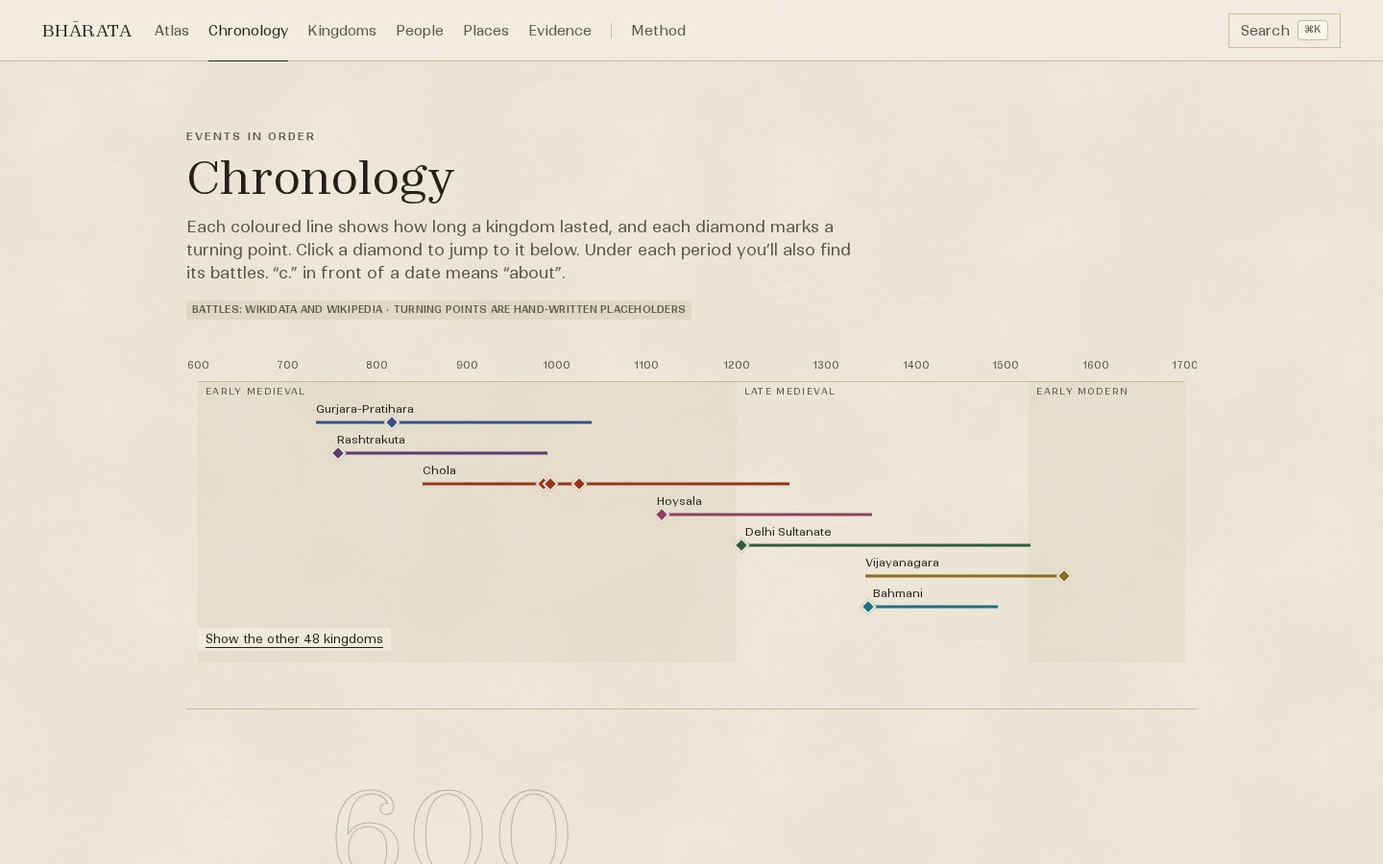
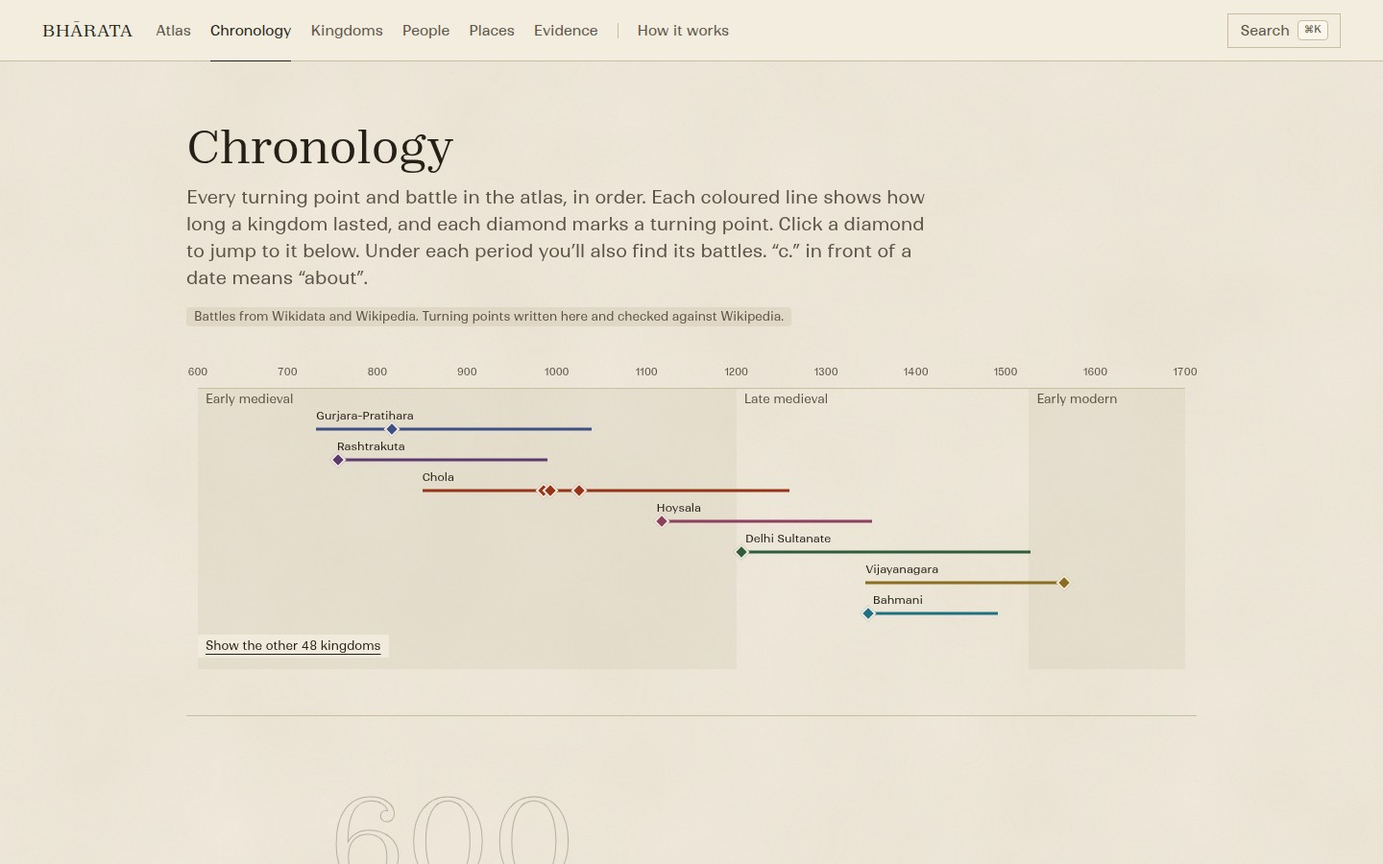
Reconcile every document with the code and data, and retake the README screenshots

diff --git a/docs/DATA.md b/docs/DATA.md
@@ -40,9 +40,9 @@ Three related rules follow from it:
 | Data | Source | Licence | Where it is credited |
 |---|---|---|---|
 | Kingdom borders and dates | [Cliopatria](https://github.com/Seshat-Global-History-Databank/cliopatria), Seshat Global History Databank. Bennett et al., *Scientific Data* 12, 247 (2025). [doi:10.1038/s41597-025-04516-9](https://doi.org/10.1038/s41597-025-04516-9) | CC BY 4.0 | Each kingdom page (Sources), the Method page, the footer, and saved map images |
-| Kingdom and ruler summaries, battle descriptions | English Wikipedia, opening paragraph, lightly trimmed | CC BY-SA 4.0 | Each page's Sources list names the article |
-| Capitals and their coordinates; battles; rulers' roles and dates; protected monuments | [Wikidata](https://www.wikidata.org) | CC0 | Each page's Sources list; Method page |
-| Photographs and portraits | [Wikimedia Commons](https://commons.wikimedia.org) | Per file: only CC BY, CC BY-SA, CC0 and public domain are accepted | Photographer, licence and link under every image; full list on the Method page |
+| Kingdom and ruler summaries, battle descriptions; ruler names and reigns for kingdoms Wikidata has no monarchs for | English Wikipedia: opening paragraphs, lightly trimmed, and the dated tables in its "List of …" articles | CC BY-SA 4.0 | Each page's Sources list names the article or list |
+| Capitals and their coordinates; battles; rulers' roles and dates; protected monuments; dated temples, mosques, forts and tombs; native-script and alternative names | [Wikidata](https://www.wikidata.org) | CC0 | Each page's Sources list; Method page |
+| Photographs of kingdoms and places, ruler portraits, and the thumbnails shown for dated sites (linked from Commons, not copied) | [Wikimedia Commons](https://commons.wikimedia.org) | Per file: only CC BY, CC BY-SA, CC0 and public domain are accepted | Photographer, licence and link under every image; full list on the Method page |
 | Inscription translation | *South Indian Inscriptions*, Vol. II (Archaeological Survey of India, 1913), scan from the Digital Library of India | Public domain | The evidence page's source chain, with a link to the scan |
 | Chera outline (placeholder) | [indian-district-boundaries](https://github.com/guneetnarula/indian-district-boundaries) | MIT | Method page |
 | Base map | © CARTO, © OpenStreetMap contributors | ODbL (data); CARTO terms (tiles) | Map attribution control, Method page |
@@ -54,7 +54,7 @@ Wikipedia's licence (CC BY-SA 4.0) requires attribution and share-alike. Each su
 
 ## 3. The pipeline
 
-Data is imported by three Python scripts that you run by hand. Their output is committed to the repository, so the site builds offline and every data change is a reviewable diff.
+Data is imported by Python scripts that you run by hand. Their output is committed to the repository, so the site builds offline and every data change is a reviewable diff. The diagram shows the three main importers; the table under it lists the rest.
 
 ```mermaid
 flowchart TB
@@ -103,7 +103,18 @@ flowchart TB
     class CZ,WD,WP,CM,A1,A2,A3,B1,B2,B3,C1,C2,C3,O1,O2,O3 node;
 ```
 
-Order matters: run `import-cliopatria.py` first, then the other two, which read its output.
+Order matters: run `import-cliopatria.py` first, then the others, which read its output.
+
+| Script | Reads | Writes |
+|---|---|---|
+| `import-names.py` | The caches the three importers above wrote | Native-script and alternative names |
+| `import-sites.py` | Wikidata | `public/data/sites.geojson` |
+| `import-ruler-lists.py` | Wikipedia's lists of rulers, and the kingdom list | Rulers for kingdoms Wikidata lacks, and which Wikidata records they replace |
+| `check-places.py` | Wikidata | Item and coordinates for each hand-written place |
+| `import-place-photos.py` | `check-places.py` output, Commons | Photographs and credits for places |
+| `import-photos.py` | Commons (a human picks) | Photographs and credits for kingdoms |
+| `apply-corrections.py` | The generated files | The documented fixes, re-applied after any import |
+| `validate-data.py` | Everything, and the web | A list of problems; changes nothing |
 
 All network responses are cached in a `cache/` folder inside the directory you run from, so reruns are fast, offline, and give identical results.
 
@@ -119,7 +130,7 @@ mkdir -p ~/bharata-import && cd ~/bharata-import
 
 # 2. Python with shapely
 python3 -m venv venv
-venv/bin/pip install shapely
+venv/bin/pip install shapely pillow     # Pillow is only for import-photos.py candidates
 
 # 3. The Cliopatria dataset (about 44 MB zipped)
 curl -L -o clio.zip \
@@ -189,7 +200,7 @@ Automatic imports need a few human judgements. They are written down in the scri
 | `lib/data/generated/place-wikidata.json` | `check-places` | Wikidata item and coordinates for each of the 24 hand-written places (it found Halebidu typed 25 km off) |
 | `lib/data/generated/photos.json` | `import-photos` | Credit for 35 hand-picked kingdom photographs (`public/images/kp-*.jpg`) |
 | `lib/data/generated/imported-people.json` | `import-rulers` | Rulers: dates, whether they are a reign or a lifetime, role, summary |
-| `lib/data/generated/imported-ruler-images.json` | `import-rulers` | Credit for each ruler image |
+| `lib/data/generated/imported-ruler-images.json` | `import-rulers` | Credit for each ruler image (32; 14 are not shown, see section 7) |
 | `lib/data/prototype.ts` | by hand, plus the merge | Hand-written records, and the code that merges everything above into typed arrays |
 | `lib/data/images.ts` | by hand, plus the merge | Credits for hand-picked photographs |
 | `lib/data/story.ts` | by hand | The four homepage chapters |
@@ -221,11 +232,12 @@ These are known limits of the current data, not bugs. They are tracked in [`BACK
 
 ### Rulers
 
-Every kingdom now has at least one ruler, about 670 in all, with reign dates. They come from three routes: Wikidata (office and dates), Wikipedia's dated lists of rulers (`import-ruler-lists.py`), and a few hand-written records checked against their Wikipedia article. Where a list gives a reign and Wikidata only a lifetime, the reign replaces it. The biggest lists: Anuradhapura (52), Bengal Sultanate (36), Kashmir Sultanate (32), Delhi Sultanate (32), Vijayanagara (28), Chola (20).
+Every kingdom now has at least one ruler, about 670 in all, with reign dates. They come from three routes: Wikidata (office and dates), Wikipedia's dated lists of rulers (`import-ruler-lists.py`), and a few hand-written records checked against their Wikipedia article. Where a list gives a reign and Wikidata only a lifetime, the reign replaces it. The biggest lists: Anuradhapura (52), Bengal Sultanate (36), Delhi Sultanate (33), Kashmir Sultanate (32), Vijayanagara (29), Chola (20).
 
 What is still thin, and why:
 
 - **Harsha's Empire (1), Kampili (2), the Maratha kingdom (3), the Thanjavur Nayaks (4):** the sources name no more rulers in the years the atlas covers.
+- **Pala, Gurjara-Pratihara and the Kalyani Chalukya (1 each):** only the hand-written ruler; no list has been imported for them yet.
 - **Reign dates are approximate** wherever a source gives "c." years (Maitraka, Chera, Habbarid), and some sources disagree by a few years (the page gives the table's figure).
 - **Few have a summary.** Rulers from lists have a name, role and dates only; the page says so instead of leaving a blank.
 - 211 Wikidata candidates were skipped because Wikidata gave no usable dates for them.
@@ -241,7 +253,7 @@ What is still thin, and why:
 - **Evidence:** two real inscription translations (SII Vol. II, nos. 85 and 88), each read from the printed page. The photograph beside each is of a *different* inscription and is labelled so. There is no transcription of the Tamil text.
 - **Hand-written text** for the eleven curated kingdoms, their eleven rulers and the nine turning points was checked, statement by statement, against the Wikipedia article named in each record (the audit corrected about 25 statements). It is still our paraphrase, not a scholarly text.
 - **Not researched:** the **routes** (two example lines, drawn by hand and labelled so on the map) and the **Chera outline**.
-- **Portraits:** 32 of about 670 rulers have a free-licence depiction; the rest show an initial.
+- **Portraits:** 20 of 671 rulers show a free-licence portrait; the rest show an initial. Fourteen more portraits are downloaded and credited (`imported-ruler-images.json`) but not shown: twelve belong to a Wikidata record that a list's dated reign replaced, one to a hand-written record that has no image set, and one to a record that no longer exists. See K10 in the backlog.
 - **Photographs:** every kingdom has one. Three (Maitraka, Lohara, Dambadeniya) show a coin or temples of the period rather than the capital's best-known building; Gahadavala and Sena show an inscription and pottery.
 - **Battles:** 6 of 127 have only a date and place from Wikidata; no source describing them was found.
 - **Native-script names** were checked against the same-language Wikipedia titles; one (Kalyani Chalukya) has none because no article title could be confirmed.

diff --git a/README.md b/README.md
@@ -20,7 +20,7 @@ Then follow any claim back to the evidence it rests on.
 
 <br />
 
-<img src="docs/assets/globe.jpg" alt="The BHĀRATA homepage: a globe turning from Africa towards the Indian subcontinent, with kingdoms inked in" width="860" />
+<img src="docs/assets/globe.jpg" alt="The BHĀRATA homepage: the subcontinent seen from above in 1050 CE with kingdoms inked in, the title, and a prompt to scroll" width="860" />
 
 <br />
 <br />
@@ -119,7 +119,7 @@ flowchart LR
 <td width="50%"><img src="docs/assets/evidence.jpg" alt="An evidence page showing a stone inscription viewer and the English translation" /><br /><sub><b>Evidence.</b> A translation from <i>South Indian Inscriptions</i>, with the viewer above it.</sub></td>
 </tr>
 <tr>
-<td colspan="2"><img src="docs/assets/chronology.jpg" alt="The chronology page with one coloured line per kingdom and diamonds for events" /><br /><sub><b>The chronology.</b> One line per kingdom, one diamond per turning point, battles listed under each period.</sub></td>
+<td colspan="2"><img src="docs/assets/chronology.jpg" alt="The chronology page with one coloured line per kingdom, diamonds for events, and a button to show the other 48 kingdoms" /><br /><sub><b>The chronology.</b> One line per kingdom (the seven with turning points first, the other 48 one click away), one diamond per turning point, battles listed under each period.</sub></td>
 </tr>
 </table>
 
@@ -133,8 +133,9 @@ BHĀRATA is an early version, and being straight about that is part of the proje
 |---|---|---|
 | Kingdom borders and dates | [Cliopatria](https://github.com/Seshat-Global-History-Databank/cliopatria) (Seshat Global History Databank, CC BY 4.0) | Researched. One version of each territory, **not exact frontiers** |
 | Kingdom summaries | Wikipedia (CC BY-SA 4.0) | Opening paragraphs, lightly trimmed |
-| Capitals, battles, dated sites, monuments, rulers | Wikidata (CC0) and Wikipedia's lists of rulers | Real. Every kingdom has rulers; a few have only two or three because the sources name no more |
+| Capitals, battles, dated sites, monuments, rulers | Wikidata (CC0) and Wikipedia's lists of rulers | Real. Every kingdom has rulers; a few have only one to four because the sources name no more |
 | Photographs | Wikimedia Commons | Real, credited; only free licences |
+| Names in Tamil, Kannada, Persian and other scripts | Wikidata labels | Real, but **not yet checked by a reader of each language** |
 | Inscription evidence | *South Indian Inscriptions* Vol. II (1913, public domain) | **Two** real translations so far |
 | Hand-written texts, eleven rulers, nine turning points | This repository | Written here and **checked against Wikipedia**, statement by statement; the source is named on each page |
 | Chera borders, two example routes | This repository | **Not researched**, labelled on the page and the map |
@@ -160,6 +161,7 @@ flowchart TB
         I1["import-cliopatria.py"]
         I2["import-wikidata.py"]
         I3["import-rulers.py"]
+        I4["and six more: names, sites,<br/>ruler lists, photographs,<br/>checks, corrections"]
     end
 
     subgraph DATA["Committed data"]
@@ -180,9 +182,13 @@ flowchart TB
     W --> I2
     W --> I3
     P --> I3
+    W --> I4
+    P --> I4
+    M --> I4
     I1 --> G
     I2 --> G
     I3 --> G
+    I4 --> G
     G --> D
     H --> D
     D --> S
@@ -190,7 +196,7 @@ flowchart TB
     S --> CC
 
     classDef box fill:#faf6ec,stroke:#241f17,color:#241f17;
-    class C,W,P,M,I1,I2,I3,G,H,D,S,SC,CC box;
+    class C,W,P,M,I1,I2,I3,I4,G,H,D,S,SC,CC box;
 ```
 
 One function, `getHistoricalState(year)`, answers *what does the world look like in year Y*. The timeline, the map and the preview panel all call it, so they can never disagree. The deeper tour, with the map's layer stack and the per-frame update path, is in [`docs/ARCHITECTURE.md`](docs/ARCHITECTURE.md).
@@ -204,9 +210,9 @@ One function, `getHistoricalState(year)`, answers *what does the world look like
 | **Framework** | [Next.js](https://nextjs.org) 16 (App Router, React Server Components), React 19, TypeScript 5 |
 | **Map** | [MapLibre GL JS](https://maplibre.org) 6: globe projection, hillshade, 3D terrain, `feature-state`. Glyphs generated from the project's own fonts |
 | **Styling** | Tailwind CSS 4 with design tokens; [Motion](https://motion.dev) for animation; the browser's View Transitions for page changes |
-| **Interface parts** | Radix UI (dialog, tabs, popover), [cmdk](https://cmdk.paco.me) for search, Lucide icons |
+| **Interface parts** | Radix UI (dialog, tabs, popover, tooltip), [cmdk](https://cmdk.paco.me) for search, Lucide icons |
 | **Data contracts** | [Zod](https://zod.dev) 4 |
-| **Import scripts** | Python 3 with `shapely` |
+| **Import scripts** | Python 3 with `shapely` (and Pillow, only to choose photographs) |
 | **Hosting** | [Vercel](https://vercel.com) |
 
 <br />
@@ -267,7 +273,10 @@ lib/
   domain/            Zod schemas and types, date formatting
   data/              Hand-written records, generated data, image credits
   geo/               getHistoricalState(year), GeoJSON conversion
-scripts/             Python importers and the MapLibre worker copy
+  search/            The search index behind the ⌘K palette
+  utils/             Small helpers (class names, colour, stored flags, page-transition types)
+scripts/             Python importers, the data checker, and the MapLibre worker copy
+assets/              Fonts for the share images
 docs/                Architecture, data, design, development, backlog
 public/              Fonts, map glyphs and style, images, monuments
 ```

diff --git a/docs/ARCHITECTURE.md b/docs/ARCHITECTURE.md
@@ -88,6 +88,7 @@ Pages are server components. Only the parts that need the browser are client com
 | All `app/**/page.tsx` routes | `AtlasView` and everything inside it |
 | Kingdom, person, place and evidence pages | `HistoricalMap`, `StoryMap` (the homepage globe) |
 | `KingdomLanes`, `ProvenanceChain`, `Colophon` | `TimelineScrubber`, `LifespanStrip`, `EventTicks` |
+| | `KingdomBoard`, `PeopleDirectory`, `PlacesAtlas` (the Kingdoms, People and Places pages: their rows are built on the server and the find box filters them in the browser) |
 | Share images (`opengraph-image.tsx`, rendered once at build) | `CommandPalette`, `EvidenceViewer`, `RakingLight` |
 | Static metadata and `generateStaticParams` | `EntityPreviewPanel`, `MobileMenu`, `NavLinks` |
 
@@ -182,7 +183,7 @@ The definitions live in `components/map/layers.ts`; ids are in `mapStyle.ts`. Ea
 - **Selecting a kingdom** flies the camera to its borders, tilts it when terrain is on, and pads the view so the shape sits clear of the preview card (desktop) or bottom sheet (mobile).
 - **Compare view** runs a second `HistoricalMap` at its own year. The two cameras are linked in both directions with a re-entrancy guard so they cannot echo each other.
 - **Save as image** copies the WebGL canvas inside the next `render` event (the buffer is cleared after each frame) and draws a key and credits onto it.
-- **Click handling** gives battles, monuments and clusters priority over the kingdom underneath. Popup content is built with `textContent`, never HTML, because names come from Wikidata.
+- **Click handling** gives battles, sites, monuments and clusters priority over the kingdom underneath. Popup content is built with `textContent`, never HTML, because names come from Wikidata.
 
 ---
 
@@ -253,7 +254,7 @@ A few choices worth knowing:
 
 ## 7. Provenance
 
-Every record that carries a claim has a `provenance` list pointing at `Source` records. A small helper turns that list into the badge shown on the page, so the label can never disagree with the data.
+Every record that carries a claim has a `provenance` list pointing at `Source` records. `polityStatus`, `personStatus` and `placeStatus` turn that list into the badge shown on the page, so the label can never disagree with the data. The diagram shows the main cases; a hand-written record whose text was checked against Wikipedia gets "Text checked against Wikipedia", and a ruler read from one of Wikipedia's lists gets "Name and dates from Wikipedia's list of rulers".
 
 ```mermaid
 flowchart LR
@@ -261,10 +262,10 @@ flowchart LR
     P --> S["Source<br/>title, citation, url"]
     P --> H["lib/data/status.ts"]
     H --> B{"What does it cite?"}
-    B -- "Cliopatria and Wikipedia" --> G["Badge: Borders: Cliopatria<br/>Summary: Wikipedia"]
-    B -- "Cliopatria only" --> Y["Badge: Borders: Cliopatria<br/>Text not yet checked"]
-    B -- "Wikidata" --> W["Badge: Dates: Wikidata"]
-    B -- "nothing but the<br/>placeholder source" --> X["Badge: Placeholder data,<br/>not yet checked"]
+    B -- "Cliopatria and Wikipedia" --> G["Borders from the Cliopatria dataset.<br/>Summary from Wikipedia."]
+    B -- "Cliopatria only" --> Y["Borders from the Cliopatria dataset.<br/>Text not checked yet."]
+    B -- "Wikidata" --> W["Dates and title from Wikidata."]
+    B -- "nothing but the<br/>placeholder source" --> X["Placeholder, not checked yet."]
 
     classDef node fill:#faf6ec,stroke:#241f17,color:#241f17;
     class R,P,S,H,B,G,Y,W,X node;
@@ -278,12 +279,12 @@ The evidence page goes one step further. `ProvenanceChain` lists each link betwe
 
 | State | Where it lives | Why |
 |---|---|---|
-| Year and selected kingdom | URL (`?year=1050&polity=chola`) | A link is a saved historical viewpoint |
+| Year, selected kingdom, layers, camera | URL (`?year=1050&polity=chola&layers=…&at=…`) | A link is a saved historical viewpoint. `layers` appears only when it differs from the default; `at` is the map view, written after the camera stops moving |
 | The year while dragging | React state in `AtlasView` | Instant; the URL follows 300 ms later |
 | Layer toggles, playing, cinema, compare, help | React state in `AtlasView` | Short-lived interface state |
 | Sound on/off | `localStorage` via `useStoredFlag` | A remembered preference; reads as "off" during server render |
 | Recent searches | `localStorage` | A convenience; every access is wrapped in `try/catch` |
-| Map camera | MapLibre | Never mirrored into React |
+| Map camera | MapLibre | Never mirrored into React state; only copied into the link (`at`) once it settles |
 
 ---
 
@@ -323,7 +324,7 @@ flowchart TB
 |---|---|
 | Scrubbing with 466 shapes | Only changed shapes are written each frame (see section 4). A 900-year drag held 60 fps in a software-rendered test browser |
 | 4,300 monuments, 344 sites | Separate GeoJSON files (780 KB together), fetched only when the layer is first enabled, clustered by MapLibre |
-| 60+ kingdoms on the timeline | Kingdoms that never overlap share a row, so about 14 rows instead of 60 |
+| 55 kingdoms on the chronology | One row per kingdom; those with recorded events come first and the rest sit behind a toggle, so the chart does not open as 55 rows |
 | Map load time | Terrain tiles are not waited for; the cover lifts as soon as the basemap and borders are drawn (about 1–3 s) |
 | Homepage globe | Starfield on a plain 2D canvas; the nebula is painted once off-screen; the camera path is one `requestAnimationFrame` loop |
 | Share images | Rendered once per kingdom at build time and cached |

diff --git a/docs/BACKLOG.md b/docs/BACKLOG.md
@@ -73,7 +73,7 @@ quadrantChart
 
 | ID | Item | Why it matters | Size |
 |---|---|---|---|
-| **D1** | **More rulers where a list stops early.** Every kingdom has rulers now, but Harsha's Empire (1), Kampili (2), the Maratha kingdom (3) and the Thanjavur Nayaks (4) have few, and several lists give only "c." years. A cited book (not just Wikipedia) would fix both | A kingdom page with a handful of rulers looks unfinished, and approximate years are only as good as the one source | M |
+| **D1** | **More rulers where a list stops early.** Every kingdom has rulers now, but Pala, Gurjara-Pratihara, the Kalyani Chalukya and Harsha's Empire (1 each), Kampili (2), the Maratha kingdom (3) and the Thanjavur Nayaks (4) have few, and several lists give only "c." years. A cited book (not just Wikipedia) would fix both | A kingdom page with a handful of rulers looks unfinished, and approximate years are only as good as the one source | M |
 | **D4** | **A citation layer down to page numbers.** Add a *Claim* record (the statement) that points to a *Source* with a page or inscription number and, where possible, a quoted line. Today a record cites a source as a whole | Turns "Wikipedia" into "Nilakanta Sastri, *The Cōḻas*, p. 214", which is what a historian can check | L |
 | **D5** | **Replace the hand-written text of the 11 curated kingdoms** (summaries, taglines, "remembered for") with cited text, then have someone who knows the history review it | It is the largest remaining body of unchecked prose | M |
 | **D2** | **More real evidence.** Start with the Chola: more of the Thanjavur inscriptions in *South Indian Inscriptions* Vols. II and III; a coin with a museum catalogue number; a temple with its ASI record. Each needs a free-licence photograph **of that object** | Today there are two real translations, each shown beside a photo of a *different* inscription | XL |
@@ -135,7 +135,7 @@ quadrantChart
 
 | ID | Item | Size |
 |---|---|---|
-| **D11** | Portraits for more of the ~670 rulers (32 have one), using coins as a fallback | M |
+| **D11** | Portraits for more of the ~670 rulers (20 show one), using coins as a fallback. First restore the 14 already downloaded (K10) | M |
 | **D14** | Extend the range beyond 600–1700 (Cliopatria covers far more); needs new era names and a lighter map at wider ranges | L |
 | **D15** | Replace the hand-drawn trade and war routes with routes from a scholarly source | L |
 | **F5** | Sidebar filters: by region, religion or ruler; group kingdoms by era | M |
@@ -164,6 +164,7 @@ Small, real problems, kept honest.
 | **K7** | The first paint of the homepage film waits for map tiles; on a slow connection it shows only stars and the title for a few seconds | `/` |
 | **K8** | Region names on imported kingdoms come from a rough position rule with a few manual overrides; some read slightly off | Kingdom pages |
 | **K9** | The share-image generator reads fonts converted from the web fonts; a rare glyph may be missing | Link previews |
+| **K10** | Fourteen ruler portraits are downloaded and credited but not shown. Twelve belonged to a Wikidata record that a Wikipedia list's dated reign later replaced, and the replacement carries no image. One more is a hand-written record with no image set, and one belongs to a record that no longer exists (`ruler-bukka`) | People pages: Razia Sultana, Sher Shah Suri, Mahmud of Ghazni, the Adil Shahs and others |
 
 ---
 

diff --git a/docs/DEVELOPMENT.md b/docs/DEVELOPMENT.md
@@ -111,6 +111,7 @@ For data, also:
 - [ ] Every new record has `provenance`, and the page's badge is correct
 - [ ] Dates use the right qualifiers; a lifetime is never shown as a reign
 - [ ] Anything uncertain says so
+- [ ] `scripts/validate-data.py` reports nothing new ([`DATA.md`](DATA.md#corrections-and-the-audit))
 
 ### Automated tests
 
@@ -138,7 +139,8 @@ New kingdoms come from the importer, not from hand-editing:
 
 1. Add the Cliopatria name to `INCLUDE` in `scripts/import-cliopatria.py` with an id and display name.
 2. Re-run the importers ([`DATA.md`](DATA.md#4-running-the-importers)) and review the diff.
-3. Optionally add a checked photo id to `IMAGE_OK`, or a hand-written record to `lib/data/prototype.ts` (and list its id in `CURATED`).
+3. Photograph: pick one with `import-photos.py candidates` then `download` ([`DATA.md`](DATA.md#4-running-the-importers)). Rulers: add the kingdom's Wikipedia list to `LISTS` in `scripts/import-ruler-lists.py` if Wikidata has no monarchs for it. Optionally add a hand-written record to `lib/data/prototype.ts` (and list its id in `CURATED`).
+4. Run `scripts/validate-data.py` and read what it prints.
 
 ### Add an evidence record
 
@@ -185,8 +187,8 @@ After a deploy, check:
 - Work on a branch; merge to `main` when it builds and you have used it.
 - Keep commit messages **short and plain**: "Add battles layer", not a paragraph.
 - **Do not add AI co-author trailers** to commits.
-- Commit generated data (`lib/data/generated`, `public/data`, `public/images/imp-*`) together with the script change that produced it, so the diff explains itself.
-- Do not commit `.env.local` or the importers' `cache/` folder.
+- Commit generated data (`lib/data/generated`, `public/data`, and the photographs the scripts download to `public/images/`) together with the script change that produced it, so the diff explains itself.
+- Do not commit `.env.local`. Run the importers from a scratch directory outside the repository, so their `cache/` folder never lands in it.
 
 ---
 

diff --git a/AGENTS.md b/AGENTS.md
@@ -55,7 +55,7 @@ Read this before assuming anything is wired up. The detail is in `docs/DATA.md`.
     Borders are one researched version of each territory, not exact frontiers.
   - *Wikidata / Wikipedia / Wikimedia Commons* (CC0 / CC BY-SA / per-file free
     licences): capitals, 127 battles, 4,313 protected monuments, ~670 rulers, 344 dated sites,
-    summaries and photographs.
+    native-script names, summaries and photographs.
   - *Hand-written text* in `lib/data/prototype.ts`: the summaries of the 11
     "curated" kingdoms, 11 rulers, nine turning points. Each statement was
     checked against the Wikipedia article named in its provenance; keep it that
@@ -67,8 +67,8 @@ Read this before assuming anything is wired up. The detail is in `docs/DATA.md`.
   the scan's machine-read Tamil is garbled and must not be used.
 - **Not built:** a database, IIIF, PMTiles, a citation layer down to page
   numbers, automated tests, CI. See `docs/BACKLOG.md`.
-- `legacy/frontend-v1` holds a prior, deliberately parked attempt. Don't pull
-  from it without being asked.
+- The git branch `legacy/frontend-v1` holds a prior, deliberately parked attempt.
+  Don't pull from it without being asked.
 
 ## Architecture boundaries
 

diff --git a/PROJECT_BIBLE.md b/PROJECT_BIBLE.md
@@ -452,7 +452,7 @@ docs/
 
 The exact folders may evolve. Separation of concerns should not.
 
-This is the **target**. The structure that exists today is described in `docs/ARCHITECTURE.md`; `server/`, `hooks/`, `tests/` and `queries/` do not exist yet (see `docs/BACKLOG.md`).
+This is the **target**. The structure that exists today is described in `docs/ARCHITECTURE.md`; `server/`, `hooks/`, `tests/`, `queries/` and `components/ui/` do not exist yet (the small building blocks are in `components/primitives/`) (see `docs/BACKLOG.md`).
 
 ## 17. Quality bar
 
